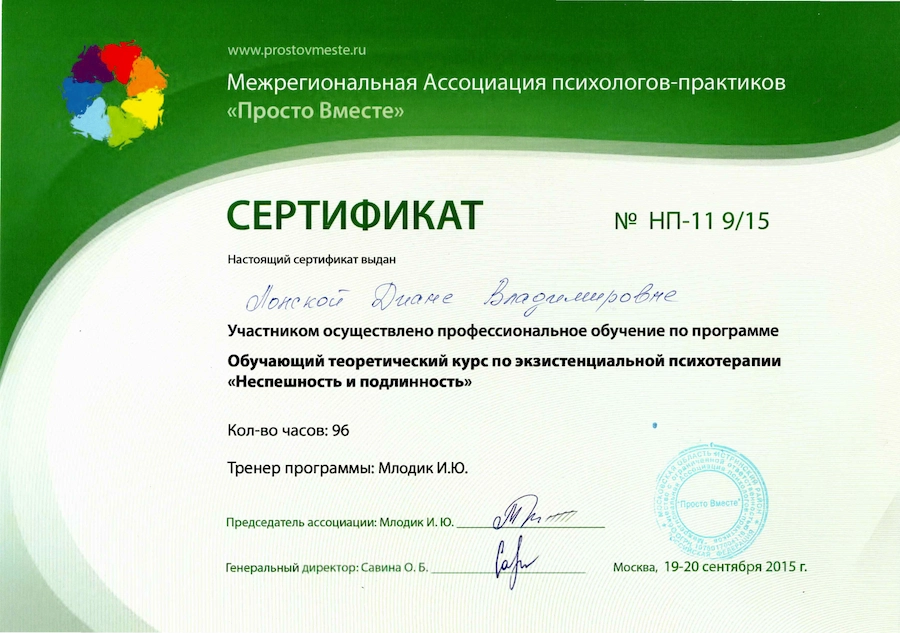
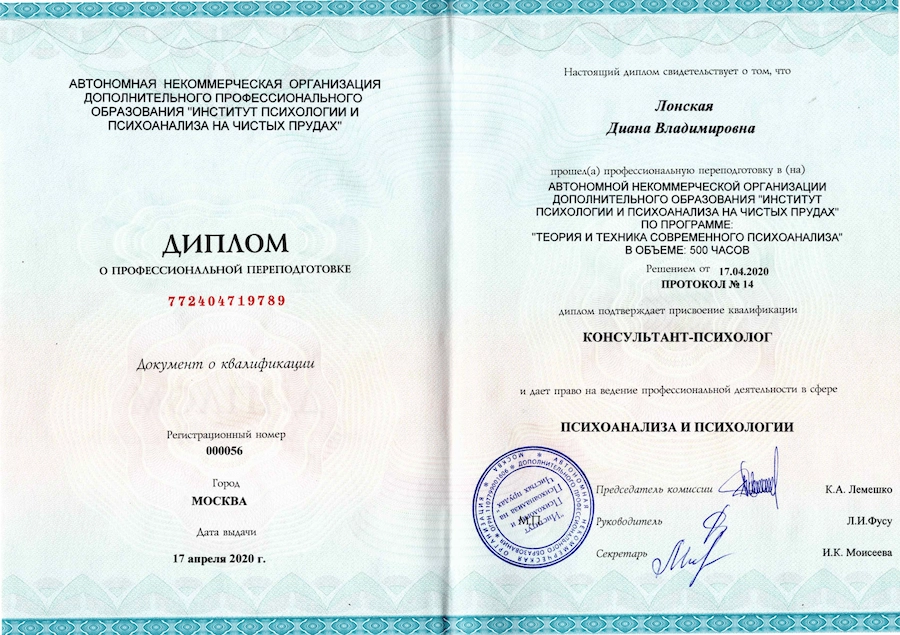
refactor: correct About me (separate page) all blocks after first (all ekrans)

diff --git a/app/obo-mne/components/propositions.module.css b/app/obo-mne/components/propositions.module.css
@@ -1,6 +1,6 @@
 .propositions {
   display: grid;
-  grid-template-rows: repeat(2, auto);
+  grid-template-rows: repeat(3, auto);
   grid-template-columns: repeat(4, minmax(0, 205px));
   justify-content: space-between;
   row-gap: 40px;
@@ -8,7 +8,14 @@
   padding-top: 80px;
 }
 
-.propositions >:nth-child(5) {
+.title {
+  grid-column: 1 / 5;
+  font-size: 48px;
+  font-weight: 500;
+  text-transform: uppercase;
+}
+
+.propositions >:nth-child(6) {
   grid-column: 1 / 5;
   font-size: 22px;
   width: 100%;
@@ -48,13 +55,19 @@
 
 @media (max-width: 540px) {
   .propositions {
-    grid-template-rows: repeat(3, auto);
+    grid-template-rows: repeat(4, auto);
     grid-template-columns: repeat(2, minmax(0, 180px));
     row-gap: 20px;
     padding-top: 40px;
   }
 
-  .propositions >:nth-child(5) {
+  .title {
+    justify-self: center;
+    grid-column: 1 / 3;
+    font-size: 25px;
+  }
+
+  .propositions >:nth-child(6) {
     grid-column: 1 / 3;
     font-size: 14px;
   }

diff --git a/app/obo-mne/components/propositions.tsx b/app/obo-mne/components/propositions.tsx
@@ -2,13 +2,14 @@ import styles from './propositions.module.css';
 
 export default function Propositions() {
   return <section className={`${styles.propositions} container`}>
+    <h3 className={styles.title}>Направления работы</h3>
     <div className={styles.proposition}>
       <img src='/propositions/1.webp'></img>
       <h3>Индивидуальные консультации очно и онлайн</h3>
     </div>
     <div className={styles.proposition}>
       <img src='/propositions/2.webp'></img>
-      <h3>Мастер-классы и обучение</h3>
+      <h3>Вебинары и курсы</h3>
     </div>
     <div className={styles.proposition}>
       <img src='/propositions/3.webp'></img>

diff --git a/app/obo-mne/components/where-read.tsx b/app/obo-mne/components/where-read.tsx
@@ -1,0 +1,9 @@
+import Link from 'next/link';
+import styles from './where-read.module.css';
+
+export default function WhereRead() {
+  return <section className={`${styles.whereRead} container`}>
+    <h3 className={styles.title}>Где меня читать</h3>
+    <p>Мои посты и заметки можно читать <span className={styles.link}><Link href='https://t.me/diana_lonskaya' target='_blank' rel='nofollow noopener noreferrer'>ЗДЕСЬ</Link></span>. Там я делюсь своими размышлениями о психической экономике, динамике чувств и отношениях с собой, серьезно о глубоком…</p>
+  </section>
+}

diff --git a/app/obo-mne/components/where-read.module.css b/app/obo-mne/components/where-read.module.css
@@ -1,0 +1,36 @@
+.whereRead {
+  display: grid;
+  row-gap: 40px;
+  color: #4C5866;
+  padding-top: 80px;
+}
+
+.title {
+  font-size: 48px;
+  font-weight: 500;
+  text-transform: uppercase;
+}
+
+.whereRead >:nth-child(2) {
+  font-size: 24px;
+  
+  span {
+    font-weight: 600;
+  }
+}
+
+@media (max-width: 540px) {
+  .whereRead {
+    row-gap: 20px;
+    padding-top: 40px;
+  }
+
+  .title {
+    justify-self: center;
+    font-size: 25px;
+  }
+
+  .whereRead >:nth-child(2) {
+    font-size: 18px;
+  }
+}

diff --git a/app/obo-mne/page.tsx b/app/obo-mne/page.tsx
@@ -1,5 +1,6 @@
 import Hero from './components/hero';
 import Propositions from './components/propositions';
+import WhereRead from './components/where-read';
 import Education from './components/education';
 import Diploms from './components/diploms';
 
@@ -7,6 +8,7 @@ export default function Page() {
   return <main>
     <Hero/>
     <Propositions/>
+    <WhereRead/>
     <Education/>
     <Diploms/>
   </main>;

diff --git a/app/obo-mne/components/education.module.css b/app/obo-mne/components/education.module.css
@@ -41,6 +41,7 @@
   }
 
   .title {
+    justify-self: center;
     font-size: 25px;
   }
 
